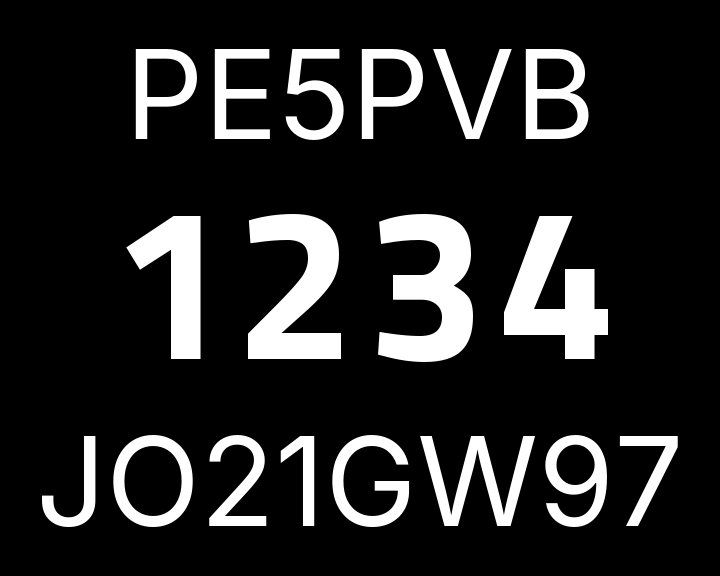
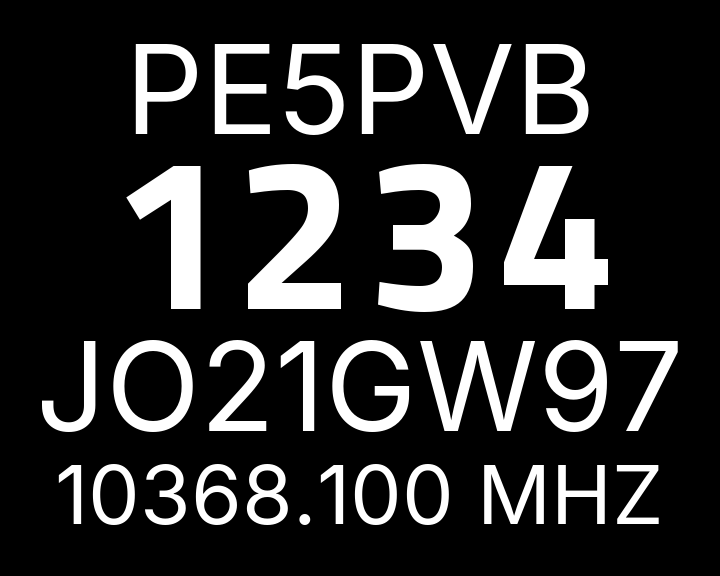
README: twenty-six cards, the real-time clock, the four contest pages, and pictures of the BATC, BATC Legacy and TV clock cards

diff --git a/README.md b/README.md
@@ -3,10 +3,10 @@
 # PAL-sign
 Advanced CVBS PAL test card generator, built around an RP2350 and an ADV7391 video encoder
 
-A standalone hardware test card generator for anyone working with analogue television: an ATV contest, aligning a transmitter or receiver, or just needing a proper PAL B/G composite signal on the bench. Twenty broadcast-standard test cards, generated in real time and sent out as CVBS, no PC required to run it.
+A standalone hardware test card generator for anyone working with analogue television: an ATV contest, aligning a transmitter or receiver, or just needing a proper PAL B/G composite signal on the bench. Twenty-six built-in test cards, generated in real time and sent out as CVBS, no PC required to run it.
 
 ## Features
-- Twenty built-in test cards: PM5644 (4:3 and 16:9), BBC Cards F/G/W, FuBK (full, simple and 16:9), EBU colour bars and black & white, Crosshatch, Multiburst, Pulse & Bar, sin(x)/x, Mixed bars, Picdream, four ATV Contest pages and a TVE card
+- Twenty-six built-in test cards: PM5644 (4:3 and 16:9) and the monochrome PM5644 Indian Head monoscope, BBC Cards F/G/W, FuBK (full, simple and 16:9), EBU colour bars and black & white, the ADV7391's own internal colour bars, Crosshatch, Multiburst, Pulse & Bar, sin(x)/x, Mixed bars, Picdream, a BATC card and the BATC Legacy card of the BBC Micro era, four ATV Contest pages with callsign, contest number, locator and frequency, a TVE card and an analogue TV clock
 - Fourteen Custom slots for your own pictures, uploaded from the PC tool
 - BBC Test Card F and W can each show a photo of your own instead of the original, centred and uploaded from the PC tool
 - Teletext, WSS aspect ratio signalling and Insertion Test Signal (ITS) support
@@ -14,7 +14,8 @@ A standalone hardware test card generator for anyone working with analogue telev
 - A scrolling ticker band, colour, speed and size configurable per card
 - An on-device menu on its own screen, driven by a rotary encoder, so every setting is reachable without a PC
 - Optional PCM audio: with a PCM1808 ADC attached, two extra cards embed stereo sound in the picture itself (see "PCM audio" below)
-- A Windows configurator to upload your own pictures and change every setting from a PC
+- A real-time clock with a backup cell on the board (RV-3028-C7 or RV-3032-C7), so date and time survive a power cut; the on-screen clocks follow summer time automatically if you let them
+- A Windows configurator to upload your own pictures and change every setting from a PC; it reconnects to the port it used last time
 
 ## Controls and settings
 Everything below is reachable from the on-device screen and knob, or from the PC tool; the two show the same settings.
@@ -27,7 +28,7 @@ A small screen and a rotary encoder on the front, entirely optional: unplug that
 - Holding the knob down while powering the board on starts a five-second on-screen countdown; holding through the whole countdown runs a full factory reset (every setting back to its default) once it finishes, releasing early cancels it.
 
 ### The per-card menu (short press)
-What is offered depends on the card: one with no room for a ticker will not offer one, and one with no clock box will not offer a colour for it. Between them, the twenty cards can offer:
+What is offered depends on the card: one with no room for a ticker will not offer one, and one with no clock box will not offer a colour for it. Between them, the cards can offer:
 - Enabled: whether stepping through the cards can land on this one; a disabled card keeps its settings, it is just skipped
 - Ticker: off, solid or transparent (transparent only on a built-in card, an uploaded photo has no room budget for it), its vertical position, speed and direction, one of five sizes and four fonts, and its colour
 - Aspect ratio: nine WSS modes, off, 4:3 full frame, 14:9 letterbox (centred or at the top), 14:9 full frame, 16:9 letterbox (centred or at the top), 16:9 anamorphic, and a wider-than-16:9 letterbox, switching the ADV7391's own wide screen signalling to match
@@ -35,7 +36,7 @@ What is offered depends on the card: one with no room for a ticker will not offe
 - The moving line, on the cards that have one
 - The insert boxes (a running clock, or fixed text instead): off, time only, date and time, or the fixed text
 - The text font used for all of the above
-- A handful of card-specific extras: the PM5644 16:9's chroma test bars, Test Card G's AP2 variant, the ATV Contest pages' three lines (callsign, locator, frequency) and contest number, each of the four pages on its own, and BBC Test Card F/W's own switch for a custom photo instead of the original
+- A handful of card-specific extras: the PM5644 16:9's chroma test bars, Test Card G's AP2 variant, the ATV Contest pages' three lines (callsign, locator, frequency) and contest number, each of the four pages on its own, BATC Legacy's third text line, and BBC Test Card F/W's own switch for a custom photo instead of the original
 
 ### The System menu (long press)
 - Text: the first and second identification line, the ticker message, and the fixed text an insert box shows instead of a running clock
@@ -43,7 +44,7 @@ What is offered depends on the card: one with no room for a ticker will not offe
 - Two cycles: the ADV7391's luma and chroma filter presets
 - The screen's own brightness
 - The date and time, set field by field, kept automatically in step with summer time if that switch is on
-- Enabling or disabling any of the twenty cards, without touching what is currently on air
+- Enabling or disabling any of the cards, without touching what is currently on air
 - Seven analogue controls on the ADV7391 itself: DAC gain, Y scale, brightness, hue, the luma peaking filter (SSAF), and the luma and chroma delay
 
 ### The slideshow
@@ -56,7 +57,7 @@ A scrolling text band that can run on almost any card, configured per card as li
 Both cards have their own oval photo window built in; the PC tool's "Upload portrait..." button lets you put your own picture there instead. The two windows are not quite the same size or shape, so one upload feeds both: choose a photo, drag it and use the zoom slider until the right part sits inside both outlines shown on the preview, and both are cut out and sent in one step. Each card keeps its own on/off switch (see the per-card menu above), so you can show your photo on one, the original on the other, or either everywhere.
 
 ## Test cards
-Six of the twenty, captured straight off the composite output.
+Nine of the twenty-six. The first five were captured straight off the composite output; the BATC card, BATC Legacy and the TV clock are frame dumps read back from the board, and the ATV Contest page is drawn from the firmware's own glyph tables, exactly as the board renders it.
 
 <table>
 <tr>
@@ -67,7 +68,12 @@ Six of the twenty, captured straight off the composite output.
 <tr>
 <td width="33%"><img src="images/testcard-f.png" width="100%" alt="BBC Test Card F"><br><b>BBC Test Card F</b><br>The well known girl-and-clown card, rebuilt from the original photo scan, surrounded by colour bars, resolution wedges and a grey scale.</td>
 <td width="33%"><img src="images/mixed-bars.png" width="100%" alt="Mixed bars"><br><b>Mixed bars</b><br>The same eight colour bars twice: once in colour, once with the chroma stripped out, so the bottom row shows exactly the brightness each colour bar carries.</td>
-<td width="33%"><img src="images/atv-contest.png" width="100%" alt="ATV Contest"><br><b>ATV Contest</b><br>Callsign, contest number, locator and working frequency in large, legible digits, meant to be read off a weak or noisy signal during a contest.</td>
+<td width="33%"><img src="images/atv-contest.png" width="100%" alt="ATV Contest"><br><b>ATV Contest</b><br>Callsign, contest number, locator and working frequency in large, legible digits, meant to be read off a weak or noisy signal during a contest. There are four of these pages, each with its own texts and number, so a station can switch between contests or bands with one click of the knob; the frequency line uses a smaller face so that a 10 GHz frequency fits in full.</td>
+</tr>
+<tr>
+<td width="33%"><img src="images/batc.png" width="100%" alt="BATC card"><br><b>BATC card</b><br>Laid out after a BATC repeater card: a frequency staircase on top, seven rows of ever finer bars down to a 4 MHz square wave, the callsign large beside colour bars, and reversed bars with a grey staircase below.</td>
+<td width="33%"><img src="images/batc-legacy.png" width="100%" alt="BATC Legacy"><br><b>BATC Legacy</b><br>The amateur television test card of the BBC Micro era, after the G7GTN version of the BATC book's "Test Card with Call sign": the callsign large, with two text lines under the colour bars, the lower one its own setting.</td>
+<td width="33%"><img src="images/tv-clock.png" width="100%" alt="TV clock"><br><b>TV clock</b><br>A full-picture analogue clock after the TV Klok of depips.nl, with the second hand stepping once a second, driven by the board's real-time clock; the identification lines sit in the corner.</td>
 </tr>
 </table>
 
@@ -86,7 +92,10 @@ One RP2350 core works out the pixel data for the current picture, line by line, 
 Teletext, the widescreen signalling (WSS) and the insertion test signal (ITS) are not produced by a separate chip. They are ordinary picture data: a handful of lines in the vertical blanking interval, the lines you never actually see, above and below the visible picture, get filled with luma samples that decode into the teletext bits or the WSS code, exactly like any other line of picture content decodes into a colour. The firmware works out that waveform itself, pulse by pulse, to the shape the relevant standard requires, and writes it straight into the same buffer the ADV7391 streams out.
 
 ### Test cards and your own pictures
-The twenty built-in test cards are pixel data compiled straight into the firmware; several of them, the PM5644 and BBC cards, come from the original EPROM dumps of real broadcast test card generators. Alongside those sit fourteen Custom slots: plain picture data reserved in the last part of the 16 MB flash chip, which you fill from the PC tool over the same USB serial connection used for firmware uploads.
+The twenty-six built-in test cards are pixel data compiled straight into the firmware; several of them, the PM5644 and BBC cards, come from the original EPROM dumps of real broadcast test card generators. Alongside those sit fourteen Custom slots: plain picture data reserved in the last part of the 16 MB flash chip, which you fill from the PC tool over the same USB serial connection used for firmware uploads.
+
+### The clock
+The clocks in the picture, the PM5644's centre box, the TV clock and the date and time inserts, run on a real-time clock chip on the board, a Micro Crystal RV-3028-C7 or, on the newer board variant, an RV-3032-C7; the firmware looks for both at power-on and drives whichever it finds. A rechargeable ML2032 cell keeps that chip running through a power cut, trickle charged from the board's own supply, so the time only has to be set once, from the menu or the PC tool. A board without either chip still keeps time while it is powered, but starts from a fixed default date at every power-on until the time is set again.
 
 ### The screen and the knob
 The screen on the front is a plain SPI display, and the knob next to it is an ordinary quadrature rotary encoder, decoded from a GPIO interrupt so a fast turn is never missed; see "Controls and settings" above for what they do.
@@ -132,8 +141,9 @@ Plus supply and GND for the ADC board. The PCM1808's mode pins go high for maste
 
 ## Repository layout
 - `Firmware/` -- the firmware for the RP2350, built with PlatformIO or the Arduino IDE
-- `PC Software/` -- the Windows configurator, see [its own README](PC%20Software/README.md) for how to build and use it
+- `PC Software/` -- the Windows configurator and the PCM decoder, see [the configurator's README](PC%20Software/Configurator/README.md) for how to build it
 - `Hardware/Kicad/` -- the PCB design
+- `Hardware/RV-3032-C7 version/` -- the same board with the RV-3032-C7 as its real-time clock, for when the RV-3028-C7 is hard to get
 
 ## Building the firmware
 ```
